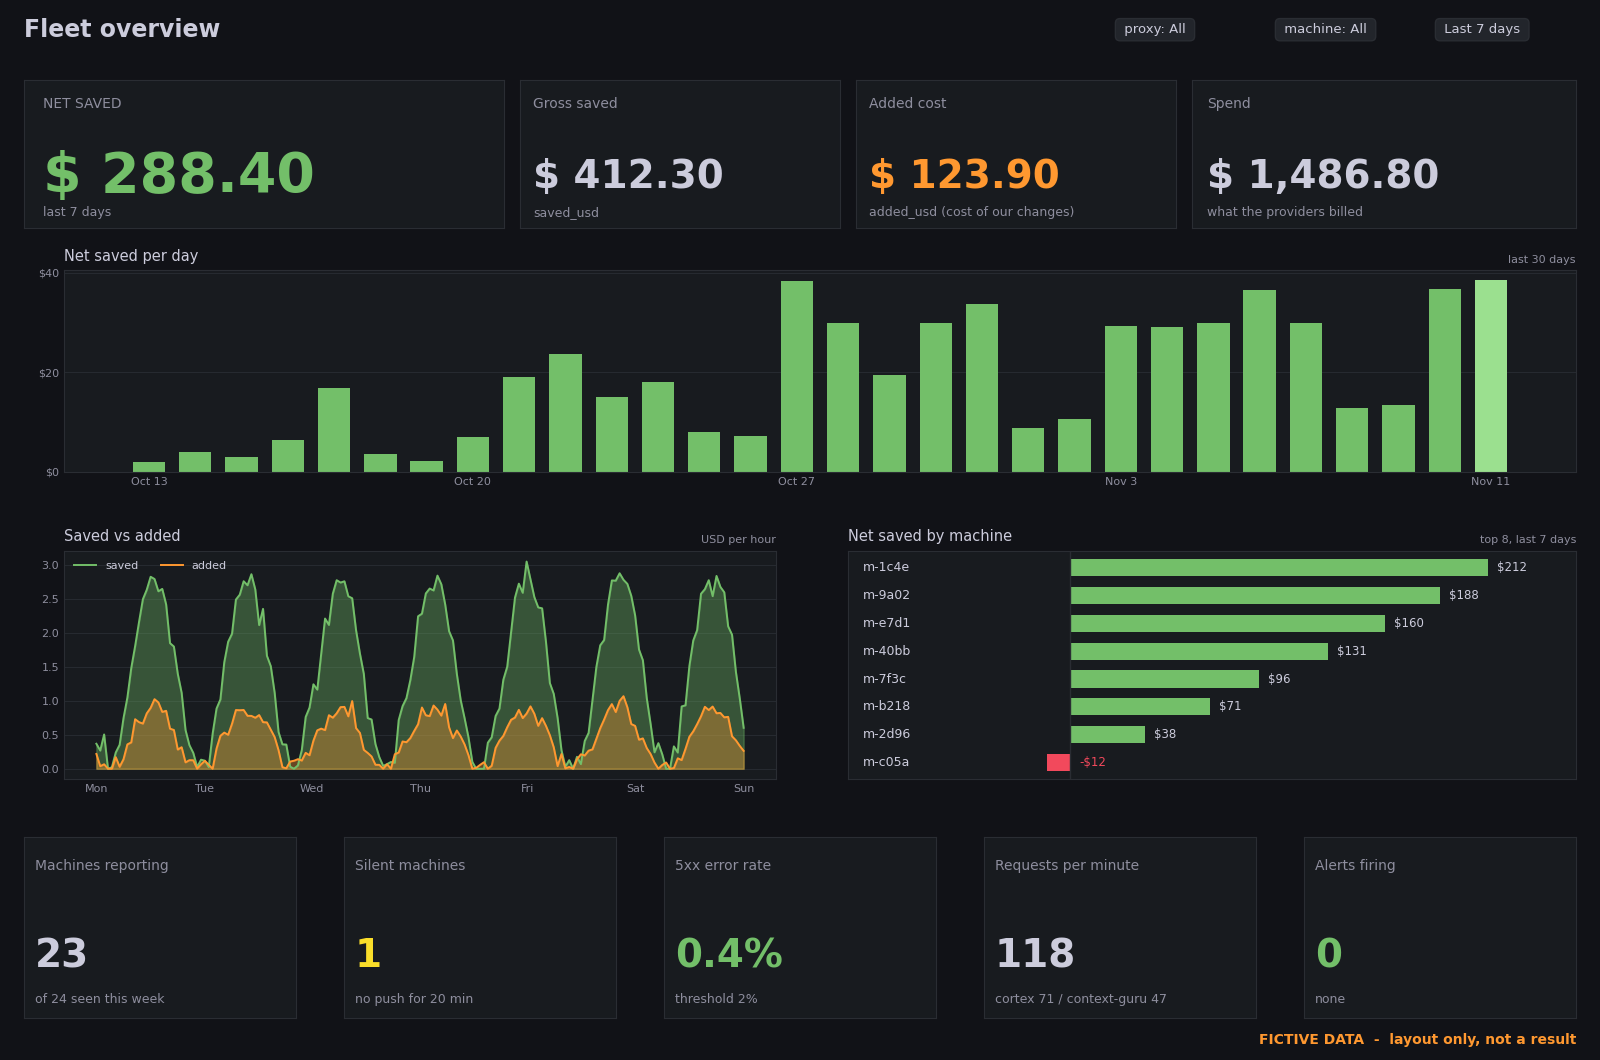
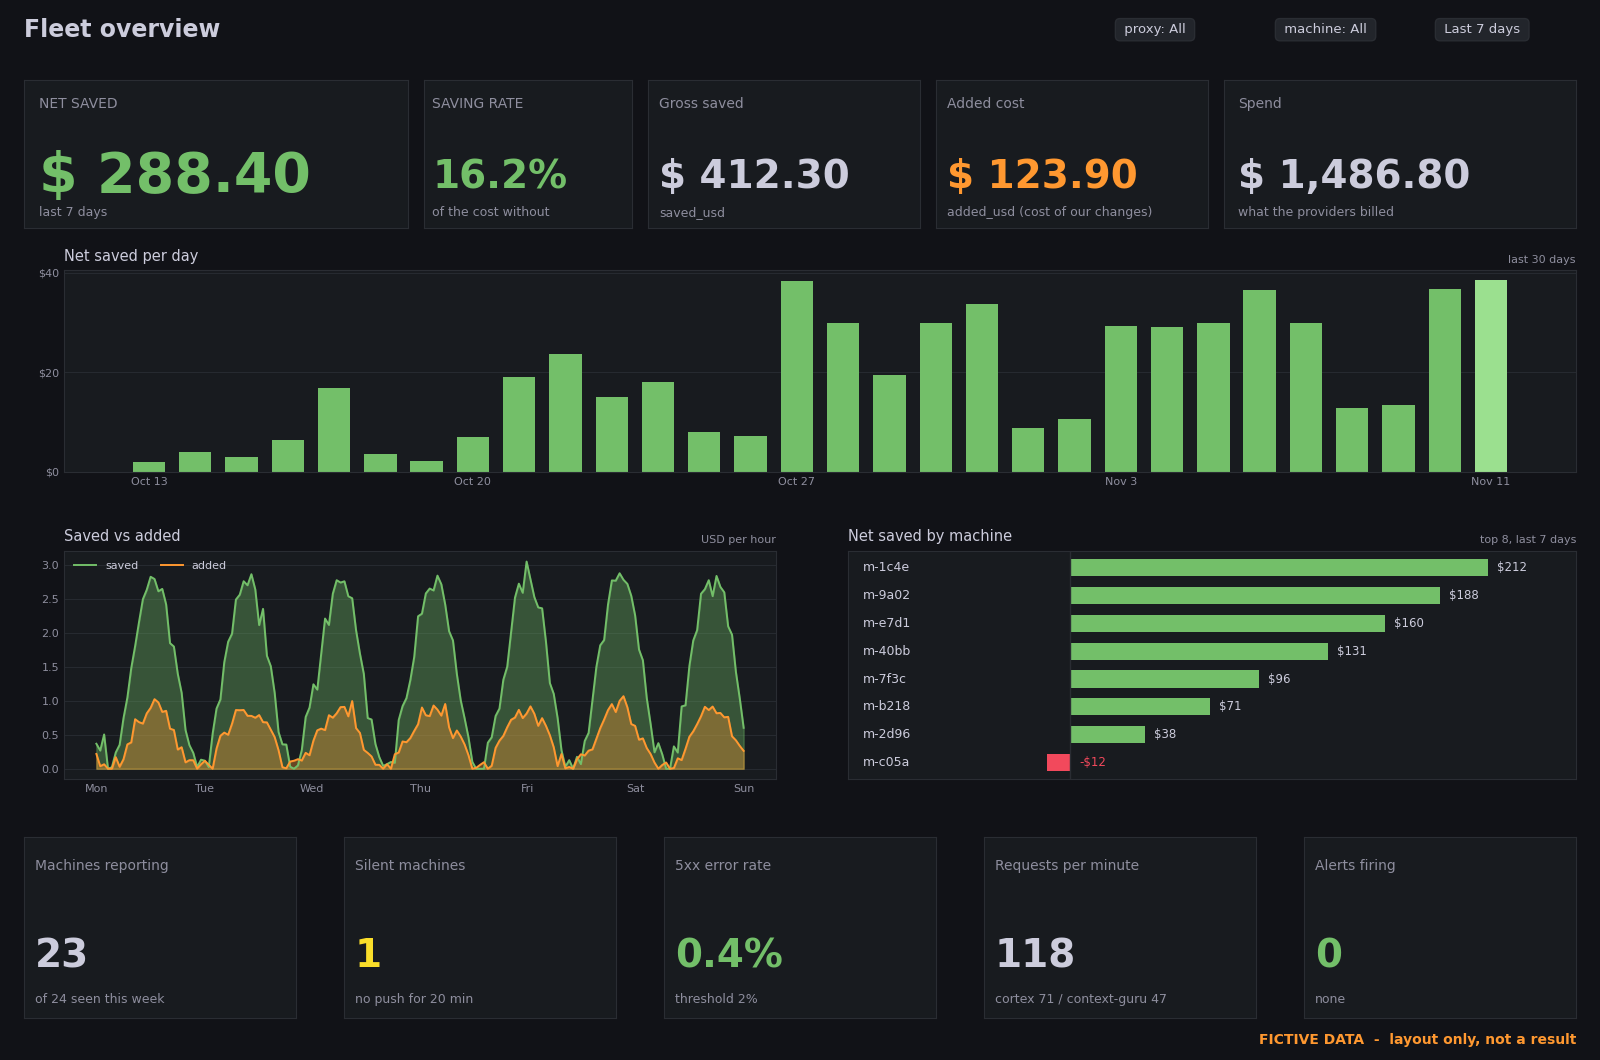
docs(prometheus): Add the saving rate tile to the Fleet overview
Net saved divided by spend plus net saved: the share of what the traffic would have cost
without the proxy. The exact baseline counter is not built, so spend plus net stands in.

Assisted-By: Claude (Anthropic AI) <noreply@anthropic.com>

diff --git a/docs/prometheus/mockups/gen_mockups.py b/docs/prometheus/mockups/gen_mockups.py
@@ -94,11 +94,12 @@ def save(fig, name):
 def fleet():
     fig = canvas("Fleet overview", h=10.6)
     # Row 1: money first
-    stat(fig, [0.015, 0.785, 0.30, 0.14], "NET SAVED", "$ 288.40", GREEN, "last 7 days",
+    stat(fig, [0.015, 0.785, 0.24, 0.14], "NET SAVED", "$ 288.40", GREEN, "last 7 days",
          DIM, big=True)
-    stat(fig, [0.325, 0.785, 0.20, 0.14], "Gross saved", "$ 412.30", TXT, "saved_usd")
-    stat(fig, [0.535, 0.785, 0.20, 0.14], "Added cost", "$ 123.90", ORG, "added_usd (cost of our changes)")
-    stat(fig, [0.745, 0.785, 0.24, 0.14], "Spend", "$ 1,486.80", TXT, "what the providers billed")
+    stat(fig, [0.265, 0.785, 0.13, 0.14], "SAVING RATE", "16.2%", GREEN, "of the cost without", DIM)
+    stat(fig, [0.405, 0.785, 0.17, 0.14], "Gross saved", "$ 412.30", TXT, "saved_usd")
+    stat(fig, [0.585, 0.785, 0.17, 0.14], "Added cost", "$ 123.90", ORG, "added_usd (cost of our changes)")
+    stat(fig, [0.765, 0.785, 0.22, 0.14], "Spend", "$ 1,486.80", TXT, "what the providers billed")
     # Row 2: net saved per day
     ax = panel(fig, [0.04, 0.555, 0.945, 0.19], "Net saved per day", "last 30 days")
     d = np.clip(np.linspace(8, 40, 30) + rng.normal(0, 5, 30), 2, None)

diff --git a/docs/prometheus/spec.md b/docs/prometheus/spec.md
@@ -413,7 +413,7 @@ Question: do we save money, and is the fleet healthy?
 
 ![Fleet overview (fictive data)](img/dash-fleet.png)
 
-Order, top to bottom: the four money tiles, the daily net saved, the hourly trend with the best machines, then a health strip. The tiles use the colors of rule 3.
+Order, top to bottom: the money tiles (net saved and saving rate first), the daily net saved, the hourly trend with the best machines, then a health strip. The tiles use the colors of rule 3.
 
 | Panel | Type | Query idea |
 |---|---|---|
@@ -429,7 +429,7 @@ Order, top to bottom: the four money tiles, the daily net saved, the hourly tren
 | 5xx error rate | stat | 5xx requests / requests |
 | Requests per minute | stat | `sum(rate(llm_inference_requests_total[...])) * 60` |
 | Alerts firing | stat | `count(ALERTS{alertstate="firing"})` |
-| Saving rate | stat | net / baseline. **Not built:** it needs the baseline counter. |
+| **Saving rate** | stat | net saved / (spend + net saved): the share of what the traffic would have cost without the proxy. Next to the Net saved tile. The exact baseline counter (`llm_savings_baseline_usd_total`) is not built, so spend plus net stands in for it. |
 
 ### 6.2 Savings
 
